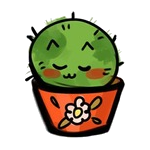
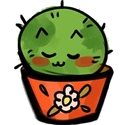
feat: UI improvements
* Move plant id badge to upper-left corner
* Convert actions area into gread to display better on smaller resolutions
* Cut empty space from pot image

diff --git a/plants-shelves/src/components/Plants/Plant.tsx b/plants-shelves/src/components/Plants/Plant.tsx
@@ -105,12 +105,8 @@ function Plant({ plant, index }: PlantProps) {
 
     return (
       <Card className={`${styles.plant} ${styles[backgroundColor()]}`} data-testid={`plant-card-${index}`}>
+        <Badge color="light" className={styles.badge}>{plant.symbol.userWideId}</Badge>
         <CardBody className={styles.narrowCard}>
-          <section className={styles.controls} data-testid={`plant-controls-${index}`}>
-            <Button size="sm" outline onClick={toggleEditModal} title="Edit" data-testid="edit-btn" className={uiStyles.roundButton}>
-              <i className="icon icon-settings" />
-            </Button>
-          </section>
           <section className={styles.imageGroup}>
             <WhenToWater daysUntilNextWatering={plant.daysUntilNextWatering}/>
             <ButtonGroup className={styles.progressGroup}>
@@ -118,10 +114,12 @@ function Plant({ plant, index }: PlantProps) {
               <Button size="sm" outline onClick={toPostponeWatering} title="Postpone Watering">+1</Button>
             </ButtonGroup>
           </section>
-          <section>
+          <section className={styles.actions}>
             <Button size="sm" outline onClick={toWater} title="Water" data-testid="water-btn" className={uiStyles.roundButton + " " + styles.waterButton}>&#128166;</Button>
-            <Badge color="light" className={styles.badge}>{plant.symbol.userWideId}</Badge>
             <img src={pot} alt="plant pot" className={styles.image}/>
+            <Button size="sm" outline onClick={toggleEditModal} title="Edit" data-testid="edit-btn" className={uiStyles.roundButton}>
+              <i className="icon icon-settings" />
+            </Button>
           </section>
           <CardTitle tag="h5">{plant.name}</CardTitle>
           <CardSubtitle tag="h6" className="mb-2 text-muted">{plant.scientificName}</CardSubtitle>

diff --git a/plants-shelves/src/components/Plants/Plant.module.css b/plants-shelves/src/components/Plants/Plant.module.css
@@ -26,10 +26,9 @@
 }
 
 .image {
-  height: 6em;
+  height: 5em;
   width: auto;
   object-fit: contain;
-  margin-left: -1em;
 }
 
 .plant .controls {
@@ -70,11 +69,17 @@
   width: 100%;
 }
 
+.actions {
+  display: grid;
+  grid-template-columns: 0.9fr 1fr 0.9fr;
+  justify-items: center;
+  align-items: center;
+}
+
 .badge {
-  position: relative;
-  top: 1.9em;
-  left: calc(29% - 0.6em);
-  border-radius: 50%;
+  position: absolute;
+  top: 0;
+  left: 0;
   font-size: 0.8em;
   background-color: #d84412;
   color: azure;
@@ -107,9 +112,7 @@
 }
 
 .waterButton {
-  position: absolute;
-  left: 7%;
-  top: 27%;
+
 }
 
 @keyframes alarm {
